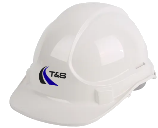
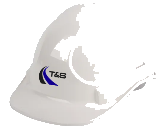
Polish PPE, Founders, Forms, Leave Days, Mobile Phone slides
- PPE: !important CSS on .ppe-img to defeat global border/shadow.
  Uniform 130px slot with bottom-aligned images so all equipment
  appears on the same baseline. Flood-filled white backgrounds
  on hard-hat, wand-baton, two-way-radio PNGs (now transparent).
- Founders: dedicated .founder-circle wrapper with overflow:hidden
  and !important resets prevents stretched images and centers both.
- Accessible Forms: replaced childish emojis with inline SVG icons
  in tinted circle chips, cleaner .form-row card styling.
- Leave Days: 3 numbered card rows with headline + description,
  cyan numbered badges for clear separation.
- Mobile Phone: professional hero banner, added AirPods/earphones
  ban explicitly. Icon-card grid covers awareness, reaction time,
  earphones, and compliance consequences.

diff --git a/induction-slides.js b/induction-slides.js
@@ -32,7 +32,7 @@ const employeeGuideSlides = [
   {
     title: 'Meet Our Founders',
     subtitle: 'Taj & Saadat',
-    content: '<div class="founders-grid"><div class="founders-photos"><div style="text-align:center;flex-shrink:0;"><div style="width:130px;height:130px;border-radius:50%;border:3px solid var(--cyan);overflow:hidden;margin-bottom:0.5rem;box-shadow:none !important;"><img src="/images/slides/founder-saadat.png" alt="Taj" style="width:100%;height:100%;object-fit:cover;object-position:center 20%;display:block;border-radius:0 !important;border:none !important;box-shadow:none !important;"></div><p style="font-weight:700;font-size:15px;color:white;">Taj</p></div><div style="text-align:center;flex-shrink:0;"><div style="width:130px;height:130px;border-radius:50%;border:3px solid var(--orange);overflow:hidden;margin-bottom:0.5rem;box-shadow:none !important;"><img src="/images/slides/founder-taj.png" alt="Saadat" style="width:100%;height:100%;object-fit:cover;object-position:center 20%;display:block;border-radius:0 !important;border:none !important;box-shadow:none !important;"></div><p style="font-weight:700;font-size:15px;color:white;">Saadat</p></div></div><div class="founders-text"><p style="font-size:15px;line-height:1.7;margin-bottom:0.75rem;color:rgba(255,255,255,0.72);">Lifelong friends turned business partners, they founded the company with a shared vision — to lift the standard of safety, professionalism, and opportunity.</p><p style="font-size:14px;color:rgba(255,255,255,0.55);margin-bottom:0.75rem;line-height:1.7;">From humble beginnings, they built T&S through hard work, trust, and a deep sense of responsibility to both clients and their team.</p><p style="font-size:14px;color:rgba(255,255,255,0.55);line-height:1.7;">Their leadership goes beyond operations — they\'re dedicated to building a workplace that <strong>develops, supports, and empowers</strong> people to grow, lead, and succeed.</p></div></div>',
+    content: '<div class="founders-grid"><div class="founders-photos"><div style="text-align:center;"><div class="founder-circle cyan"><img src="/images/slides/founder-saadat.png" alt="Taj"></div><p style="font-weight:700;font-size:15px;color:white;">Taj</p></div><div style="text-align:center;"><div class="founder-circle orange"><img src="/images/slides/founder-taj.png" alt="Saadat"></div><p style="font-weight:700;font-size:15px;color:white;">Saadat</p></div></div><div class="founders-text"><p style="font-size:15px;line-height:1.7;margin-bottom:0.75rem;color:rgba(255,255,255,0.72);">Lifelong friends turned business partners, they founded the company with a shared vision — to lift the standard of safety, professionalism, and opportunity.</p><p style="font-size:14px;color:rgba(255,255,255,0.55);margin-bottom:0.75rem;line-height:1.7;">From humble beginnings, they built T&S through hard work, trust, and a deep sense of responsibility to both clients and their team.</p><p style="font-size:14px;color:rgba(255,255,255,0.55);line-height:1.7;">Their leadership goes beyond operations — they\'re dedicated to building a workplace that <strong>develops, supports, and empowers</strong> people to grow, lead, and succeed.</p></div></div>',
     layout: 'content',
     icon: ''
   },
@@ -86,7 +86,7 @@ const employeeGuideSlides = [
   {
     title: 'Wear the Correct PPE Every Time!',
     subtitle: '',
-    content: '<div style="text-align:center;"><p style="font-size:16px;color:rgba(255,255,255,0.72);margin-bottom:2.5rem;">PPE protects you from traffic, machinery and weather — it\'s your <strong style="font-weight:600;">last line of defence.</strong><br>It is a <strong style="font-weight:600;">legal requirement</strong> under NSW WHS regulations.</p><div style="display:flex;gap:2.5rem;justify-content:center;align-items:flex-end;flex-wrap:wrap;"><div style="text-align:center;width:110px;"><div style="height:110px;display:flex;align-items:flex-end;justify-content:center;margin-bottom:1rem;"><img src="/images/slides/hard-hat.png" alt="Hard Hat" style="max-height:90px;max-width:100px;filter:drop-shadow(0 6px 16px rgba(0,0,0,0.4));box-shadow:none;border:none;background:transparent;"></div><p style="font-weight:600;font-size:15px;color:white;">Hard Hat</p><p style="font-size:13px;color:rgba(255,255,255,0.45);margin-top:2px;">All job sites</p></div><div style="text-align:center;width:110px;"><div style="height:110px;display:flex;align-items:flex-end;justify-content:center;margin-bottom:1rem;"><img src="/images/slides/hivis-jacket.png" alt="Hi-Vis" style="max-height:110px;max-width:100px;filter:drop-shadow(0 6px 16px rgba(0,0,0,0.4));box-shadow:none;border:none;background:transparent;"></div><p style="font-weight:600;font-size:15px;color:white;">Hi-Vis Clothing</p><p style="font-size:13px;color:rgba(255,255,255,0.45);margin-top:2px;">Class D/N day & night</p></div><div style="text-align:center;width:110px;"><div style="height:110px;display:flex;align-items:flex-end;justify-content:center;margin-bottom:1rem;"><img src="/images/slides/hivis-pants-navy.png" alt="Pants" style="max-height:110px;max-width:90px;filter:drop-shadow(0 6px 16px rgba(0,0,0,0.4));box-shadow:none;border:none;background:transparent;"></div><p style="font-weight:600;font-size:15px;color:white;">Hi-Vis Pants</p><p style="font-size:13px;color:rgba(255,255,255,0.45);margin-top:2px;">Reflective tape</p></div><div style="text-align:center;width:110px;"><div style="height:110px;display:flex;align-items:flex-end;justify-content:center;margin-bottom:1rem;"><img src="/images/slides/wand-baton.png" alt="Wand" style="max-height:95px;max-width:100px;filter:drop-shadow(0 6px 16px rgba(0,0,0,0.4));box-shadow:none;border:none;background:transparent;"></div><p style="font-weight:600;font-size:15px;color:white;">Wand / Baton</p><p style="font-size:13px;color:rgba(255,255,255,0.45);margin-top:2px;">Night work</p></div><div style="text-align:center;width:110px;"><div style="height:110px;display:flex;align-items:flex-end;justify-content:center;margin-bottom:1rem;"><img src="/images/slides/two-way-radio.png" alt="Radio" style="max-height:110px;max-width:70px;filter:drop-shadow(0 6px 16px rgba(0,0,0,0.4));box-shadow:none;border:none;background:transparent;"></div><p style="font-weight:600;font-size:15px;color:white;">Two-Way Radio</p><p style="font-size:13px;color:rgba(255,255,255,0.45);margin-top:2px;">Communication</p></div></div></div>',
+    content: '<div style="text-align:center;"><p style="font-size:16px;color:rgba(255,255,255,0.72);margin-bottom:1.5rem;">PPE protects you from traffic, machinery and weather — it\'s your <strong style="font-weight:600;">last line of defence.</strong><br>It is a <strong style="font-weight:600;">legal requirement</strong> under NSW WHS regulations.</p><div class="ppe-grid"><div class="ppe-item"><div class="ppe-slot"><img src="/images/slides/hard-hat.png" alt="Hard Hat" class="ppe-img"></div><p class="ppe-label">Hard Hat</p><p class="ppe-sub">All job sites</p></div><div class="ppe-item"><div class="ppe-slot"><img src="/images/slides/hivis-jacket.png" alt="Hi-Vis" class="ppe-img"></div><p class="ppe-label">Hi-Vis Clothing</p><p class="ppe-sub">Class D/N day & night</p></div><div class="ppe-item"><div class="ppe-slot"><img src="/images/slides/hivis-pants-navy.png" alt="Pants" class="ppe-img"></div><p class="ppe-label">Hi-Vis Pants</p><p class="ppe-sub">Reflective tape</p></div><div class="ppe-item"><div class="ppe-slot"><img src="/images/slides/wand-baton.png" alt="Wand" class="ppe-img"></div><p class="ppe-label">Wand / Baton</p><p class="ppe-sub">Night work</p></div><div class="ppe-item"><div class="ppe-slot"><img src="/images/slides/two-way-radio.png" alt="Radio" class="ppe-img"></div><p class="ppe-label">Two-Way Radio</p><p class="ppe-sub">Communication</p></div></div></div>',
     layout: 'content',
     icon: ''
   },
@@ -137,7 +137,7 @@ const employeeGuideSlides = [
   {
     title: 'Accessible Forms',
     subtitle: '',
-    content: '<div style="display:grid;grid-template-columns:1fr 1fr;gap:2rem;align-items:center;"><div><p style="font-size:15px;line-height:1.7;color:rgba(255,255,255,0.72);margin-bottom:1.5rem;">On Traffio, tap the <strong>"Forms"</strong> tab at the bottom of the screen. Always submit a form and follow it up with your supervisor via phone call.</p><div style="display:grid;gap:0.75rem;"><div style="background:rgba(255,255,255,0.04);border:1px solid rgba(255,255,255,0.08);border-radius:8px;padding:10px 14px;display:flex;align-items:center;gap:0.75rem;border-left:3px solid var(--ts-teal);"><span style="font-size:1.2rem;">🏖</span><span style="font-weight:600;">Leave Request</span></div><div style="background:rgba(255,255,255,0.04);border:1px solid rgba(255,255,255,0.08);border-radius:8px;padding:10px 14px;display:flex;align-items:center;gap:0.75rem;border-left:3px solid var(--ts-orange);"><span style="font-size:1.2rem;">⚠</span><span style="font-weight:600;">Near Miss Investigation Form</span></div><div style="background:rgba(255,255,255,0.04);border:1px solid rgba(255,255,255,0.08);border-radius:8px;padding:10px 14px;display:flex;align-items:center;gap:0.75rem;border-left:3px solid var(--ts-red);"><span style="font-size:1.2rem;">🚑</span><span style="font-weight:600;">On-Site Incident Report Form</span></div><div style="background:rgba(255,255,255,0.04);border:1px solid rgba(255,255,255,0.08);border-radius:8px;padding:10px 14px;display:flex;align-items:center;gap:0.75rem;border-left:3px solid var(--ts-blue);"><span style="font-size:1.2rem;">🚗</span><span style="font-weight:600;">Vehicle Incident Report Form</span></div><div style="background:rgba(255,255,255,0.04);border:1px solid rgba(255,255,255,0.08);border-radius:8px;padding:10px 14px;display:flex;align-items:center;gap:0.75rem;border-left:3px solid var(--ts-purple);"><span style="font-size:1.2rem;">📸</span><span style="font-weight:600;">Site / Vehicle Equipment Count</span></div></div></div><div style="text-align:center;"><img src="/images/slides/traffio-forms.png" alt="Forms Tab" style="max-height:400px;border-radius:12px;border:1px solid rgba(255,255,255,0.08);box-shadow:0 8px 32px rgba(0,0,0,0.6);"></div></div>',
+    content: '<div style="display:grid;grid-template-columns:1fr 1fr;gap:2rem;align-items:center;"><div><p style="font-size:15px;line-height:1.7;color:rgba(255,255,255,0.72);margin-bottom:1.5rem;">On Traffio, tap the <strong>"Forms"</strong> tab at the bottom of the screen. Always submit a form and follow it up with your supervisor via phone call.</p><div class="form-list"><div class="form-row"><span class="form-ico" style="color:var(--cyan);"><svg width="18" height="18" viewBox="0 0 24 24" fill="none" stroke="currentColor" stroke-width="2" stroke-linecap="round" stroke-linejoin="round"><rect x="3" y="4" width="18" height="18" rx="2"/><path d="M16 2v4M8 2v4M3 10h18"/></svg></span><span class="form-label">Leave Request</span></div><div class="form-row"><span class="form-ico" style="color:#fbbf24;"><svg width="18" height="18" viewBox="0 0 24 24" fill="none" stroke="currentColor" stroke-width="2" stroke-linecap="round" stroke-linejoin="round"><path d="M10.29 3.86L1.82 18a2 2 0 001.71 3h16.94a2 2 0 001.71-3L13.71 3.86a2 2 0 00-3.42 0z"/><line x1="12" y1="9" x2="12" y2="13"/><line x1="12" y1="17" x2="12.01" y2="17"/></svg></span><span class="form-label">Near Miss Investigation Form</span></div><div class="form-row"><span class="form-ico" style="color:#f87171;"><svg width="18" height="18" viewBox="0 0 24 24" fill="none" stroke="currentColor" stroke-width="2" stroke-linecap="round" stroke-linejoin="round"><circle cx="12" cy="12" r="10"/><line x1="12" y1="8" x2="12" y2="12"/><line x1="12" y1="16" x2="12.01" y2="16"/></svg></span><span class="form-label">On-Site Incident Report Form</span></div><div class="form-row"><span class="form-ico" style="color:#60a5fa;"><svg width="18" height="18" viewBox="0 0 24 24" fill="none" stroke="currentColor" stroke-width="2" stroke-linecap="round" stroke-linejoin="round"><rect x="1" y="3" width="15" height="13"/><polygon points="16 8 20 8 23 11 23 16 16 16 16 8"/><circle cx="5.5" cy="18.5" r="2.5"/><circle cx="18.5" cy="18.5" r="2.5"/></svg></span><span class="form-label">Vehicle Incident Report Form</span></div><div class="form-row"><span class="form-ico" style="color:#a78bfa;"><svg width="18" height="18" viewBox="0 0 24 24" fill="none" stroke="currentColor" stroke-width="2" stroke-linecap="round" stroke-linejoin="round"><path d="M23 19a2 2 0 01-2 2H3a2 2 0 01-2-2V8a2 2 0 012-2h4l2-3h6l2 3h4a2 2 0 012 2z"/><circle cx="12" cy="13" r="4"/></svg></span><span class="form-label">Site / Vehicle Equipment Count</span></div></div></div><div style="text-align:center;"><img src="/images/slides/traffio-forms.png" alt="Forms Tab" style="max-height:400px;border-radius:12px;border:1px solid rgba(255,255,255,0.08);box-shadow:0 8px 32px rgba(0,0,0,0.6);"></div></div>',
     layout: 'content',
     icon: ''
   },
@@ -145,7 +145,7 @@ const employeeGuideSlides = [
   {
     title: 'Leave Days',
     subtitle: '',
-    content: '<div style="display:grid;grid-template-columns:1fr 1fr;gap:2.5rem;align-items:center;"><div><p style="font-size:15px;line-height:1.7;color:rgba(255,255,255,0.72);margin-bottom:1.5rem;">Open the Traffio app and tap the <strong>Leave</strong> tab at the bottom of the screen.</p><div style="display:grid;gap:1rem;"><div style="background:var(--glass);border-radius:0.75rem;padding:1.25rem;border-left:3px solid var(--ts-blue);"><p style="font-weight:600;">Enter any leave days you wish to request under this section</p></div><div style="background:var(--glass);border-radius:0.75rem;padding:1.25rem;border-left:3px solid var(--ts-orange);"><p style="font-weight:600;">Leave requests must be submitted at least <strong>2 days before</strong> the intended leave date</p></div><div style="background:var(--glass);border-radius:0.75rem;padding:1.25rem;border-left:3px solid var(--ts-green);"><p style="font-weight:600;">Requests will be reviewed and approved by an administrator</p></div></div></div><div style="text-align:center;"><img src="/images/slides/traffio-leave.png" alt="Leave Calendar" style="max-height:400px;border-radius:12px;border:1px solid rgba(255,255,255,0.08);box-shadow:0 8px 32px rgba(0,0,0,0.6);"></div></div>',
+    content: '<div style="display:grid;grid-template-columns:1fr 1fr;gap:2.5rem;align-items:center;"><div><p style="font-size:15px;line-height:1.7;color:rgba(255,255,255,0.72);margin-bottom:1.5rem;">Open the Traffio app and tap the <strong>Leave</strong> tab at the bottom of the screen.</p><div class="leave-points"><div class="leave-point"><span class="leave-num">1</span><div class="leave-body"><p class="leave-head">Submit Your Request</p><p class="leave-desc">Enter any leave days you wish to request under the Leave tab.</p></div></div><div class="leave-point"><span class="leave-num">2</span><div class="leave-body"><p class="leave-head">Give Notice</p><p class="leave-desc">Requests must be submitted at least <strong>2 days before</strong> your intended leave date.</p></div></div><div class="leave-point"><span class="leave-num">3</span><div class="leave-body"><p class="leave-head">Await Approval</p><p class="leave-desc">Requests are reviewed and approved by an administrator.</p></div></div></div></div><div style="text-align:center;"><img src="/images/slides/traffio-leave.png" alt="Leave Calendar" style="max-height:400px;border-radius:12px;border:1px solid rgba(255,255,255,0.08);box-shadow:0 8px 32px rgba(0,0,0,0.6);"></div></div>',
     layout: 'content',
     icon: ''
   },
@@ -172,7 +172,7 @@ const employeeGuideSlides = [
   {
     title: 'Mobile Phone Use on Site',
     subtitle: '',
-    content: '<div style="max-width:48rem;margin:0 auto;"><div style="background:var(--ts-red);color:white;border-radius:1rem;padding:1.5rem;text-align:center;margin-bottom:1.5rem;"><p style="font-size:2.5rem;margin-bottom:0.5rem;">📵</p><p style="font-size:1.5rem;font-weight:800;">NO PHONES ON SITE</p></div><div style="display:grid;grid-template-columns:1fr 1fr;gap:1rem;"><div style="background:var(--glass);border:1px solid var(--glass-border);border-radius:0.75rem;padding:1.25rem;"><p style="font-weight:700;color:var(--ts-red);margin-bottom:0.25rem;">Reduced Situational Awareness</p><p style="color:var(--text-secondary);font-size:0.95rem;">Must remain fully focused on vehicle and pedestrian movements.</p></div><div style="background:var(--glass);border:1px solid var(--glass-border);border-radius:0.75rem;padding:1.25rem;"><p style="font-weight:700;color:var(--ts-red);margin-bottom:0.25rem;">Delayed Reaction Times</p><p style="color:var(--text-secondary);font-size:0.95rem;">A momentary distraction can lead to accidents.</p></div><div style="background:var(--glass);border:1px solid var(--glass-border);border-radius:0.75rem;padding:1.25rem;"><p style="font-weight:700;color:var(--ts-red);margin-bottom:0.25rem;">Miscommunication</p><p style="color:var(--text-secondary);font-size:0.95rem;">Missed radio communications or misunderstood instructions.</p></div><div style="background:var(--glass);border:1px solid var(--glass-border);border-radius:0.75rem;padding:1.25rem;"><p style="font-weight:700;color:var(--ts-red);margin-bottom:0.25rem;">Increased Risk of Accidents</p><p style="color:var(--text-secondary);font-size:0.95rem;">High-speed roads, heavy vehicles, and changing traffic conditions.</p></div></div></div>',
+    content: '<div style="max-width:52rem;margin:0 auto;"><div class="mp-hero"><div class="mp-hero-icon"><svg width="26" height="26" viewBox="0 0 24 24" fill="none" stroke="currentColor" stroke-width="2" stroke-linecap="round" stroke-linejoin="round"><rect x="5" y="2" width="14" height="20" rx="2"/><line x1="12" y1="18" x2="12.01" y2="18"/><line x1="3" y1="3" x2="21" y2="21"/></svg></div><div class="mp-hero-text"><div class="mp-hero-title">No Phones, No Earphones on Site</div><div class="mp-hero-sub">Full situational awareness is required at all times</div></div></div><p style="font-size:14px;color:rgba(255,255,255,0.65);text-align:center;margin-bottom:1.25rem;">T&S holds a <strong style="font-weight:600;">zero-tolerance policy</strong> on mobile phone, AirPod, and earphone use while working on site. Devices must stay away during all stop/slow duties and traffic control activity.</p><div class="mp-grid"><div class="mp-card"><div class="mp-card-head"><span class="mp-card-ico"><svg width="14" height="14" viewBox="0 0 24 24" fill="none" stroke="currentColor" stroke-width="2" stroke-linecap="round" stroke-linejoin="round"><circle cx="12" cy="12" r="3"/><path d="M2 12s3-7 10-7 10 7 10 7-3 7-10 7S2 12 2 12z"/></svg></span><span class="mp-card-title">Reduced Situational Awareness</span></div><p class="mp-card-desc">You must stay fully focused on vehicle and pedestrian movements. A moment looking down at a phone can end in injury.</p></div><div class="mp-card"><div class="mp-card-head"><span class="mp-card-ico"><svg width="14" height="14" viewBox="0 0 24 24" fill="none" stroke="currentColor" stroke-width="2" stroke-linecap="round" stroke-linejoin="round"><circle cx="12" cy="12" r="10"/><polyline points="12 6 12 12 16 14"/></svg></span><span class="mp-card-title">Delayed Reaction Times</span></div><p class="mp-card-desc">Distraction slows your response to approaching hazards — even a second\'s delay can cause a collision.</p></div><div class="mp-card"><div class="mp-card-head"><span class="mp-card-ico"><svg width="14" height="14" viewBox="0 0 24 24" fill="none" stroke="currentColor" stroke-width="2" stroke-linecap="round" stroke-linejoin="round"><path d="M3 18v-6a9 9 0 0118 0v6"/><path d="M21 19a2 2 0 01-2 2h-1a2 2 0 01-2-2v-3a2 2 0 012-2h3zM3 19a2 2 0 002 2h1a2 2 0 002-2v-3a2 2 0 00-2-2H3z"/></svg></span><span class="mp-card-title">Earphones & AirPods Banned</span></div><p class="mp-card-desc">AirPods and earphones of any kind block out radio calls, horns, and verbal warnings from your crew or the public.</p></div><div class="mp-card"><div class="mp-card-head"><span class="mp-card-ico"><svg width="14" height="14" viewBox="0 0 24 24" fill="none" stroke="currentColor" stroke-width="2" stroke-linecap="round" stroke-linejoin="round"><path d="M10.29 3.86L1.82 18a2 2 0 001.71 3h16.94a2 2 0 001.71-3L13.71 3.86a2 2 0 00-3.42 0z"/><line x1="12" y1="9" x2="12" y2="13"/><line x1="12" y1="17" x2="12.01" y2="17"/></svg></span><span class="mp-card-title">Compliance Consequences</span></div><p class="mp-card-desc">Breaches can lead to warnings, removal from site, or termination. Clients may also ban offenders from their projects.</p></div></div></div>',
     layout: 'content',
     icon: ''
   },
